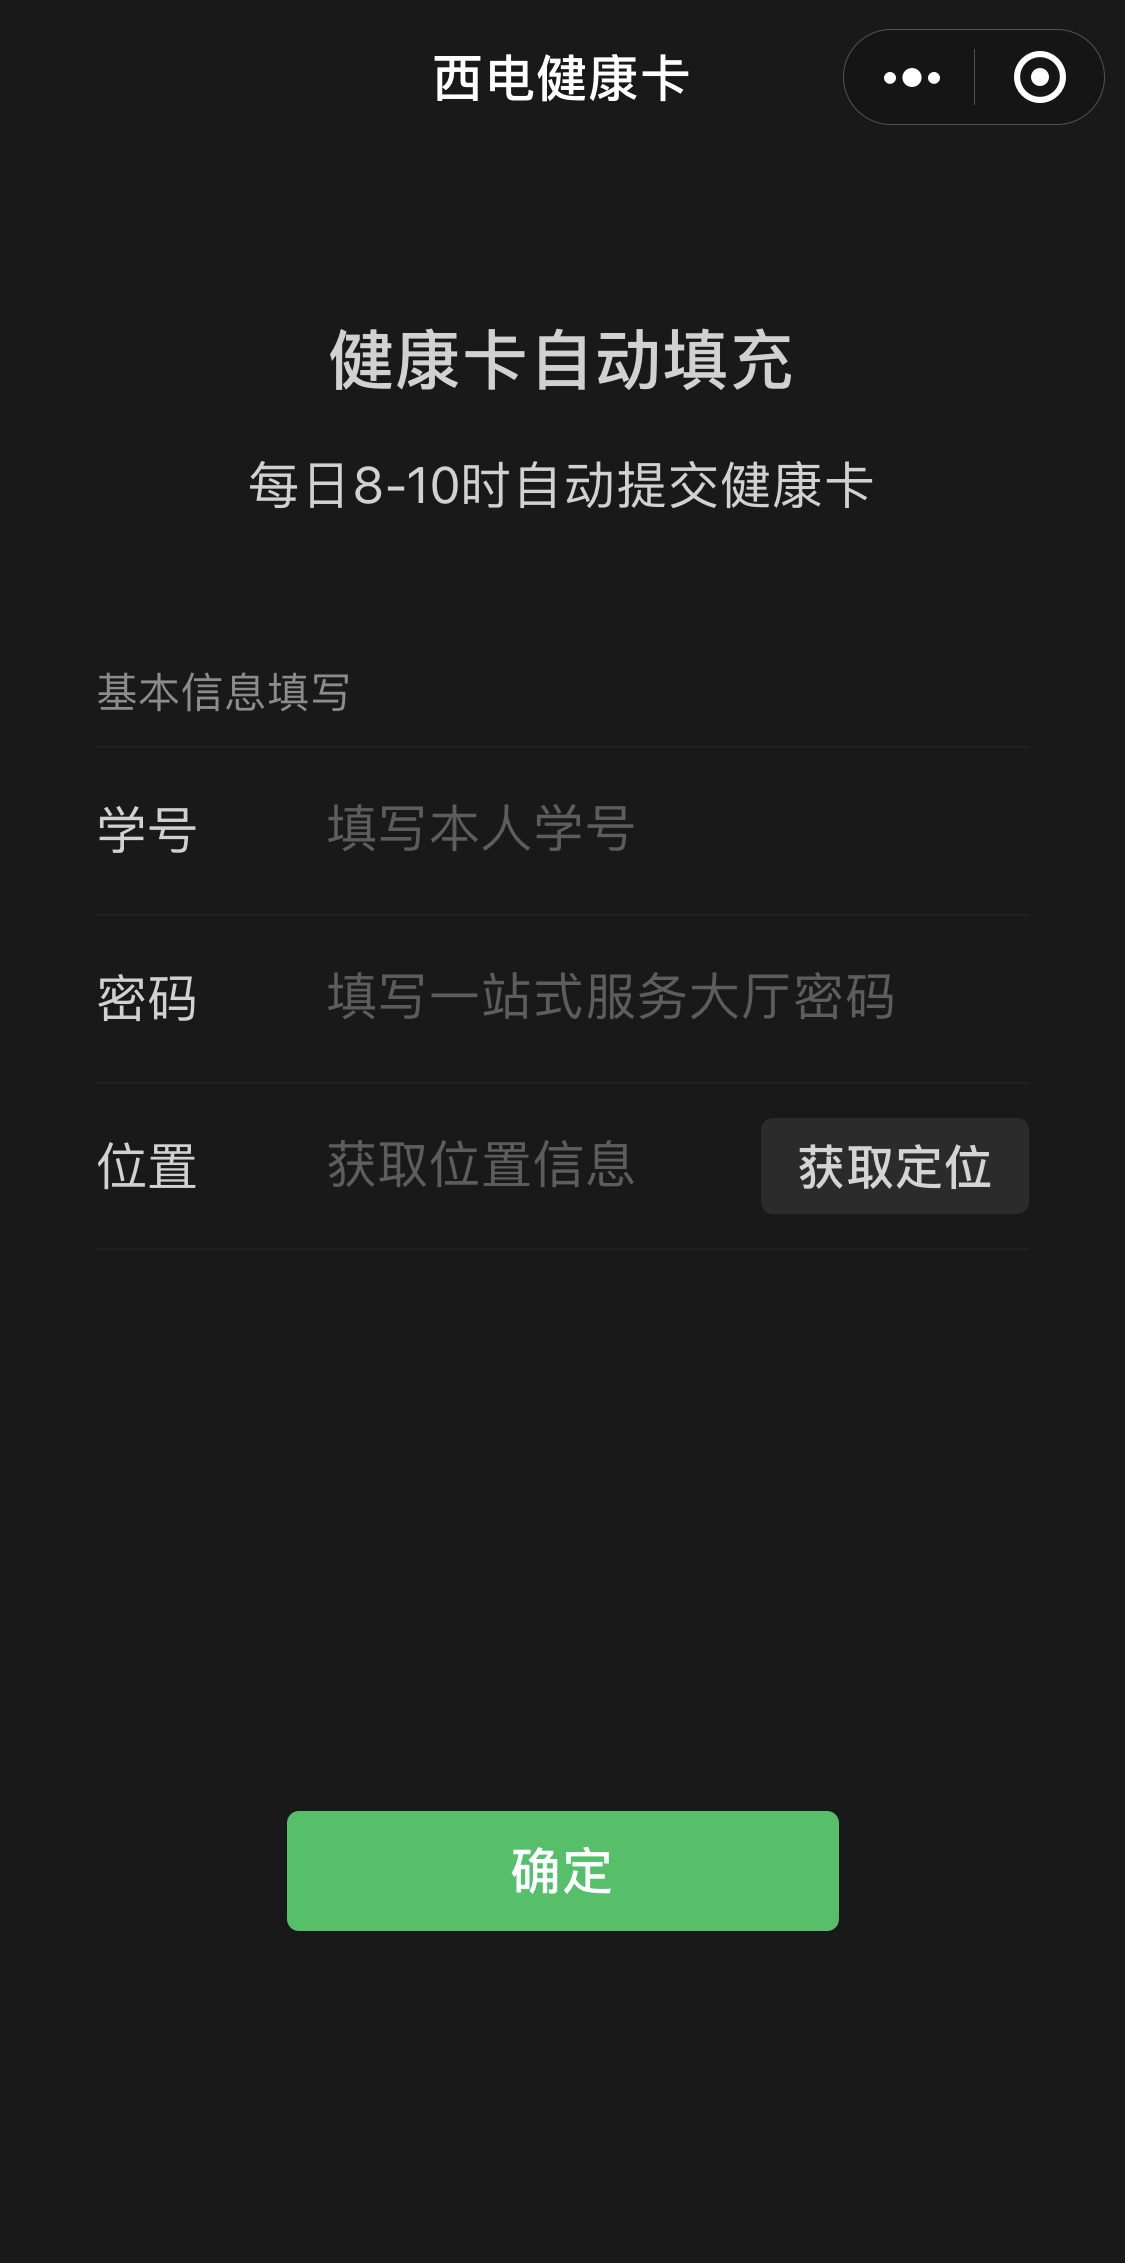
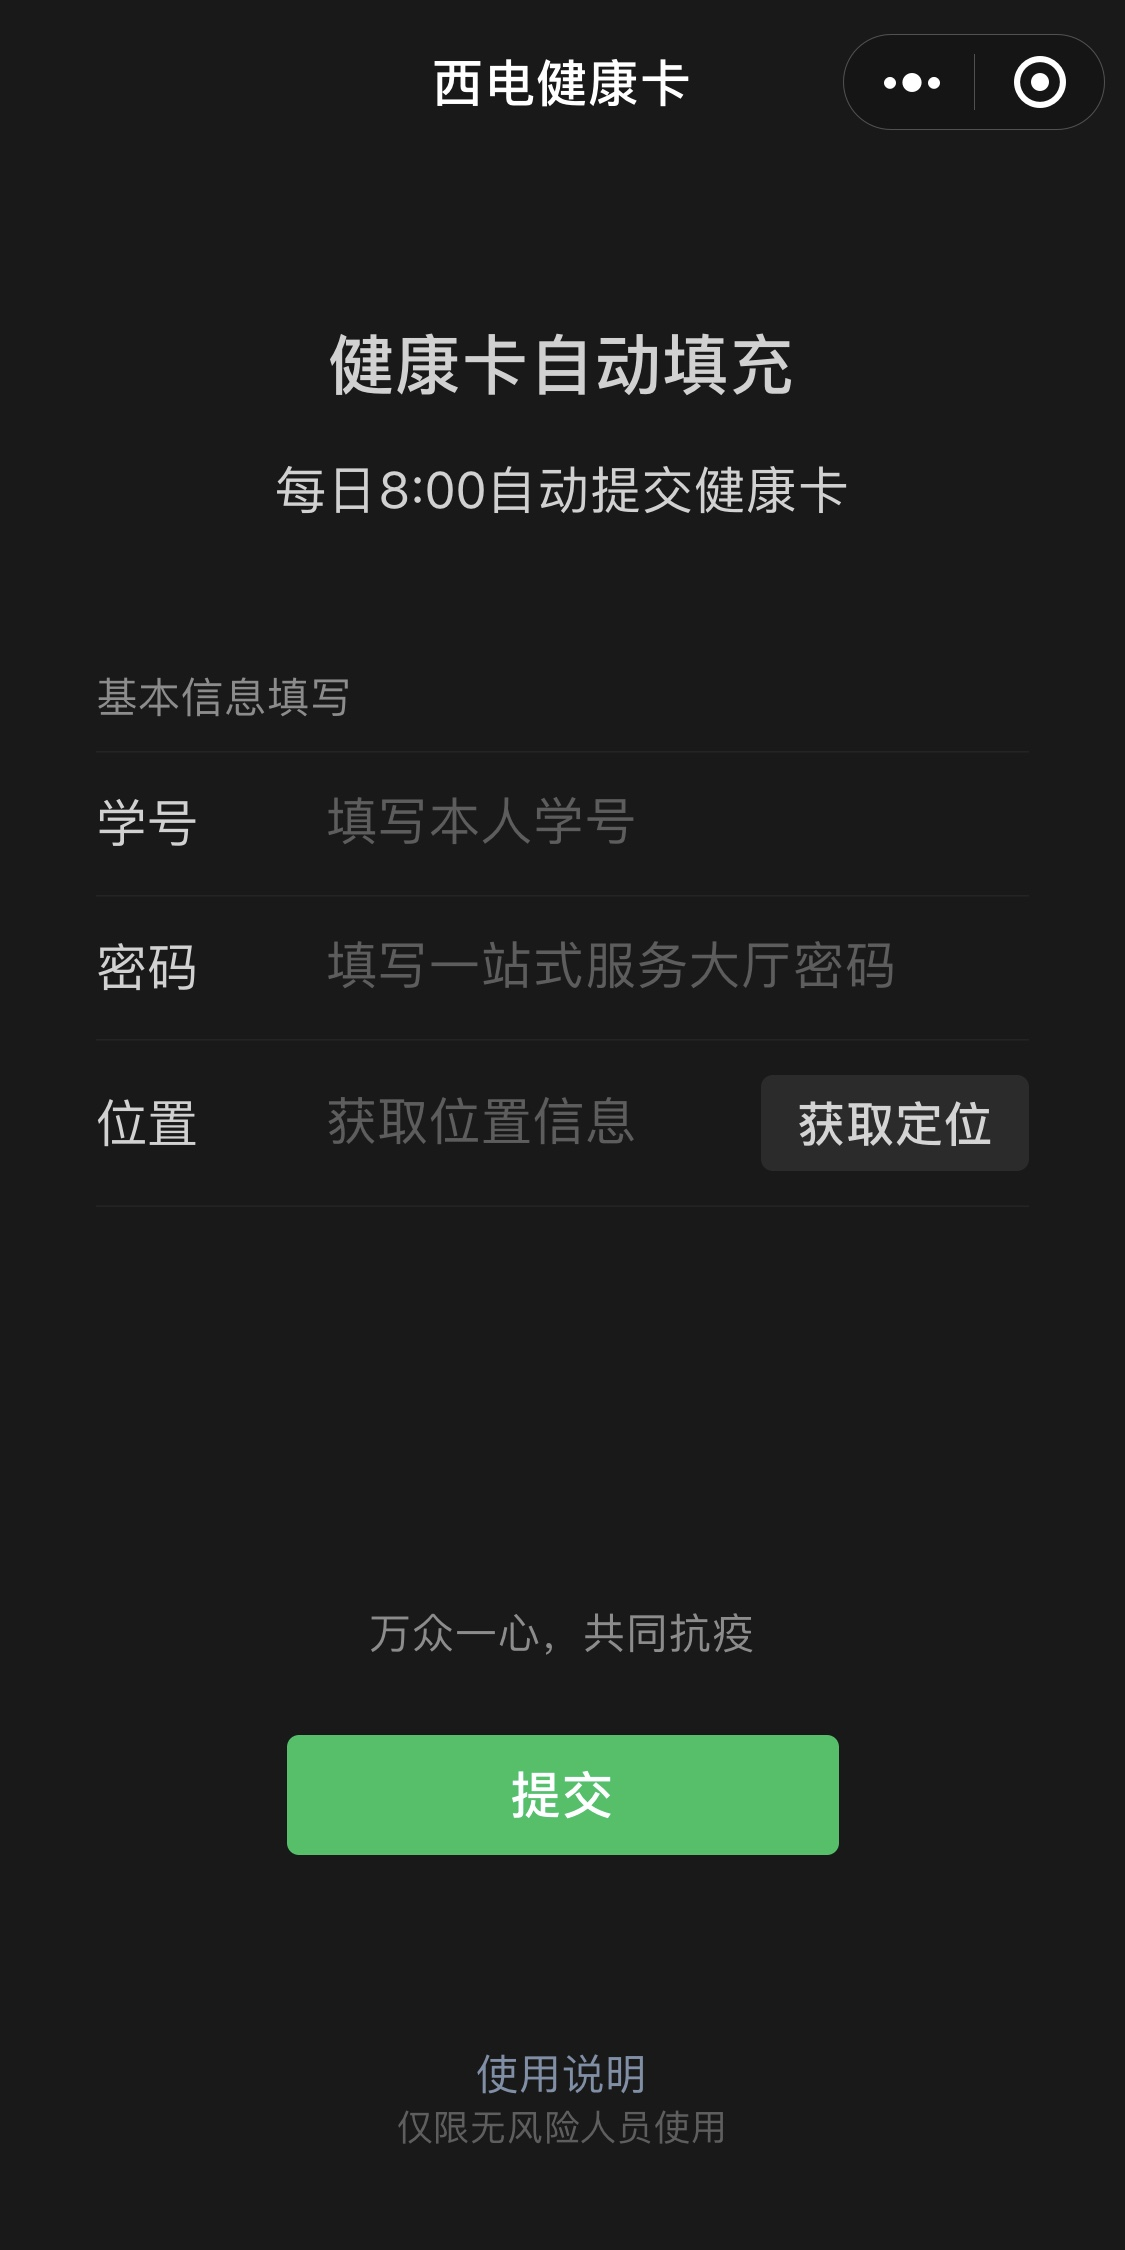
📖Update README.md

diff --git a/README.md b/README.md
@@ -1,15 +1,68 @@
 # 西电健康卡（疫情通）自动提交微信小程序
 
-+ 目前只是前端基本输入定位和UI，还没有写后端。后端可以用云开发，将数据存入云开发数据库，编写云函数和触发器进行提交。
+	本小程序用于西安电子科技大学健康卡（疫情通）的自动提交。小程序的理念是在不妨碍疫情防控的前提下，为大部分处于安全区的同学提供便捷的自动提交服务。
 
-- [x] 基本信息的输入与解析
-- [x] 信息的提交
-- [x] 建立数据库
-- [x] 编写云函数和触发器
-- [ ] 项目上线
+## 进程
+
+✅ 基本信息的输入与解析
+
+✅ 信息的提交
+
+✅ 建立数据库
+
+✅ 编写云函数和触发器
+
+❌ 小程序上线
+
+> 小程序将不会上线，如有需求，请自行构建项目使用。
+
+## 数据提交
+
+小程序将会提交如下数据：
+
++ 学号：你的学号
++ 位置：你选择的位置
++ 所在地点：中国大陆
++ 今日是否在校：否
++ 今日是否在中高风险地区：否
++ 今日体温范围：36.5℃~36.9℃
++ 今日是否出现发热等症状：否
++ 今日是否接触风险人群：否
++ 今日是否接触密接人员：否
++ 今日是否接触境外人员：否
++ 是否有任何与疫情相关的情况：否
 
 ## 截图
 
 <center>
 <img src="./READMEImgs/index_dark.jpg" alt="index_dark" style="zoom:25%;" /> <img src="./READMEImgs/index_light.jpg" alt="index_light" style="zoom:25%;" />
 </center>
+
+## 免责声明
+
+	您应该对使用本程序的结果自行承担风险。开发者不做任何形式的保证：不保证服务结果满足您的要求，不保证提交服务不中断，不保证提交结果的安全性、正确性、及时性、合法性。因网络状况、通讯线路、第三方网站等任何原因而导致您不能正常使用本程序，开发者不承担任何法律责任。
+
+	程序尊重并保护所有使用此程序用户的个人隐私权，您输入的学号、密码等个人资料，非经您亲自许可或根据相关法律、法规的强制性规定，程序不会主动地泄露给第三方或用于此程序功能以外的服务。
+
+## 构建项目
+
+	小程序新手？没有问题，在这里构建你的第一个小程序。
+
+	只要你有一个微信号，一个邮箱，就可以完全免费构建一个微信小程序。小程序完全运行在云端，不需要任何服务器设备。
+
+	要构建小程序，请按照以下步骤操作：
+
++ 前往[微信公众平台](https://mp.weixin.qq.com)使用邮箱注册一个小程序。
++ 在[微信公众平台](https://mp.weixin.qq.com)登录刚注册的小程序，前往`开发管理->开发设置`将`AppID(小程序ID)`复制并记录下来。
++ Clone此项目代码，并使用[微信开发者工具](https://developers.weixin.qq.com/miniprogram/dev/devtools/download.html)导入，导入时填写自己的`AppID(小程序ID)`，并勾选`微信云开发`。
++ 导入之后，在微信开发者工具左上角点击`云开发`，创建一个云环境。并在云开发控制台数据库页新建名为`data`的空集合。
++ 在云开发控制台数据库页选中集合`data`，点击数据权限，选中`所有用户可读，仅创建者可读写`。
++ 在微信开发者工具中间资源管理器处，找到`cloudfunctions`文件夹，可以看到里面一共有5个文件夹，分别是五个云函数。
++ 前往[腾讯位置服务](https://lbs.qq.com)，登录并进入控制台，点击`应用管理->我的应用->创建应用`创建一个应用。然后点击`添加key`，启用产品选择微信小程序并填入你的`AppID`，拿到key。
++ 将上一步拿到的`key`填入`XDHealthCard/cloudfunctions/storage/index.js`第24行最后`key=...`，替换掉代码中原有的`key`，并保存。
++ 在每一个云函数的文件夹上面右击，点击`上传并部署：云端安装依赖（不上传node_modules）`，将五个云函数均部署在云端。
++ 在云函数`submitTrigger`的文件夹上面右击，点击`上传触发器`。
++ 此时程序已可在虚拟器中运行，点击右上角上传，将程序上传为开发版本。
++ 前往[微信公众平台](https://mp.weixin.qq.com)登录此小程序，前往`版本管理->开发版本`将刚才提交的小程序设置为体验版，并下载体验二维码。
++ 扫描体验二维码就可以在手机端使用此小程序。你也可以将体验二维码分享给最多15人，同意体验申请后即可使用该程序，你可以随时在[微信公众平台](https://mp.weixin.qq.com)的`成员管理`中管理这些体验者。
+
